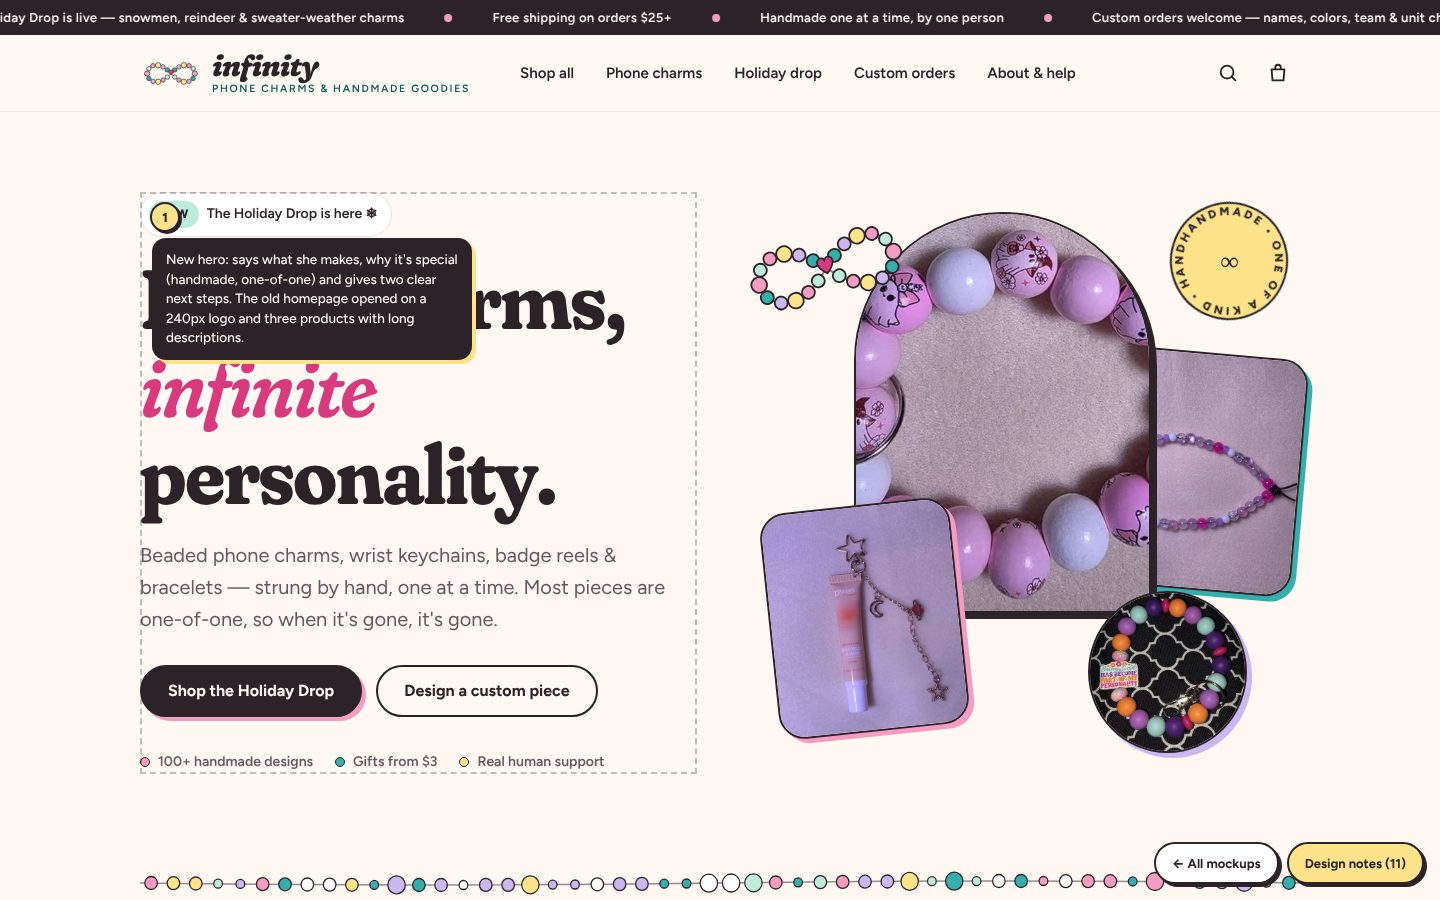
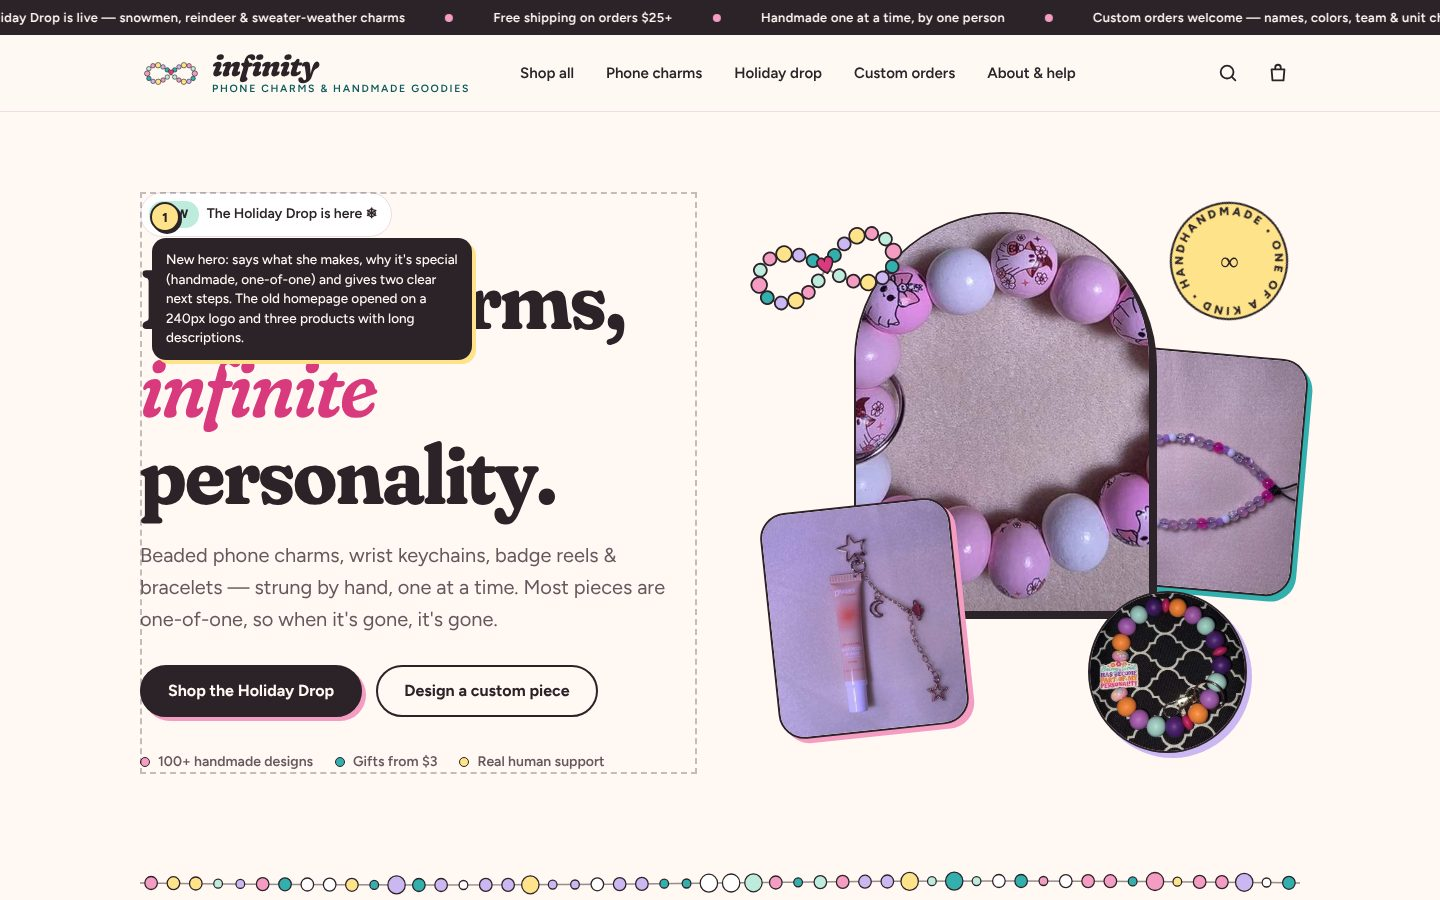
Redesign mockups: remove floating mockup buttons from pages
Design notes now open via a toggle on the overview page (or ?notes=1).

Claude-Session: https://claude.ai/code/session_01F5SttUhy2bjJKwdFrimhWv

diff --git a/infinity-redesign/index.html b/infinity-redesign/index.html
@@ -89,6 +89,11 @@
   @media (max-width: 960px) { .brand, .ui-kit { grid-template-columns: 1fr; } .ui-kit > div:last-child { max-width: 280px; } }
   @media (max-width: 520px) { .palette { grid-template-columns: repeat(2, 1fr); } .logo-show .logo .word b { font-size: 52px; } .logo-show .logo .mark { width: 100px; height: 50px; } }
 
+  .notes-toggle { display: flex; gap: 12px; align-items: center; cursor: pointer; max-width: 42ch; font-size: 14.5px; line-height: 1.4; opacity: .9; }
+  .notes-toggle input { appearance: none; width: 48px; height: 28px; border-radius: 999px; background: rgba(255,255,255,.2); border: 2px solid var(--cream); position: relative; flex-shrink: 0; cursor: pointer; margin: 0; transition: background .2s; }
+  .notes-toggle input::after { content: ""; position: absolute; top: 3px; left: 3px; width: 18px; height: 18px; border-radius: 50%; background: var(--cream); transition: transform .2s; }
+  .notes-toggle input:checked { background: var(--butter); }
+  .notes-toggle input:checked::after { transform: translateX(20px); background: var(--ink); }
   .mocks { display: grid; grid-template-columns: repeat(3, 1fr); gap: 22px; }
   .mock { color: var(--ink); text-decoration: none; display: flex; flex-direction: column; border: 2px solid var(--ink); border-radius: var(--r-lg); overflow: hidden; background: #fff; transition: transform .2s, box-shadow .2s; }
   .mock:hover { transform: translate(-3px, -3px); box-shadow: 7px 7px 0 var(--pink); }
@@ -217,7 +222,7 @@
   <!-- MOCKUPS -->
   <section class="sec" id="mockups" style="background:var(--ink);color:var(--cream)">
     <div class="wrap">
-      <div class="sec-hd"><div><span class="eyebrow" style="color:var(--mint)">The mockups</span><h2 style="color:#fff">Five pages, <em style="color:var(--pink)">fully clickable</em>.</h2></div><p style="max-width:42ch;opacity:.8">Tip: hit <b>“Design notes”</b> (bottom-right of any page) to see numbered pins explaining each change.</p></div>
+      <div class="sec-hd"><div><span class="eyebrow" style="color:var(--mint)">The mockups</span><h2 style="color:#fff">Five pages, <em style="color:var(--pink)">fully clickable</em>.</h2></div><label class="notes-toggle"><input type="checkbox" id="notesToggle"><span><b>Show design notes</b><br>Numbered pins on each page explaining every change</span></label></div>
       <div class="mocks" id="mocks"></div>
     </div>
   </section>
@@ -376,7 +381,12 @@ document.addEventListener('inf:ready', () => {
     ['custom.html', 'Custom orders', 'custom', 'Live bead builder (charm, keychain, reel, bracelet), request form, group orders.'],
     ['about.html', 'About & Help', 'about', 'Maker story, values, FAQ (shipping, returns, fit, care) and contact — one page instead of three.'],
     ['shop.html?vibe=scrubs', 'Collection example', 'scrubs', '“Scrub Life” — every nurse, dental & teacher piece in one place, across product types.']];
-  $('#mocks').innerHTML = M.map(([h, n, k, d]) => `<a class="mock" href="${h}"><div class="shot"><img class="d" src="previews/${k}-fold.jpg" alt="" loading="lazy"><img class="m" src="previews/${k}-mobile-fold.jpg" alt="" loading="lazy" onerror="this.remove()"></div><div class="txt"><h3>${n} <span aria-hidden="true">→</span></h3><p>${d}</p></div></a>`).join('');
+  $('#mocks').innerHTML = M.map(([h, n, k, d]) => `<a class="mock" href="${h}" data-href="${h}"><div class="shot"><img class="d" src="previews/${k}-fold.jpg" alt="" loading="lazy"><img class="m" src="previews/${k}-mobile-fold.jpg" alt="" loading="lazy" onerror="this.remove()"></div><div class="txt"><h3>${n} <span aria-hidden="true">→</span></h3><p>${d}</p></div></a>`).join('');
+
+  // Design-notes toggle: adds ?notes=1 to every mockup link
+  $('#notesToggle').addEventListener('change', e => {
+    document.querySelectorAll('[data-href]').forEach(a => { const h = a.dataset.href; a.href = e.target.checked ? h + (h.includes('?') ? '&' : '?') + 'notes=1' : h; });
+  });
 
   // Renames
   const R = C.filter(p => p.was).filter(p => ['Blue Snowman', 'Pink Lovers', 'You Make It Beat Faster Braclet', "Valentine's Day Stripped Heart", "Keep Calm I'ma Nurse Wrist Keychains", 'Rainbow'].includes(p.was));

diff --git a/infinity-redesign/assets/app.js b/infinity-redesign/assets/app.js
@@ -116,8 +116,7 @@
         </div>
         <div class="ft-base"><span>© 2026 Infinity Phone Charms · Handmade in the USA <span class="ph-mark" title="Placeholder — confirm location">✎</span></span><span class="pay"><span>VISA</span><span>MC</span><span>AMEX</span><span>PayPal</span><span>Apple Pay</span></span></div>
       </div>
-    </footer>
-    <div class="mock-ribbon"><a href="index.html">← All mockups</a><button type="button" data-notes>Design notes</button></div>`;
+    </footer>`;
   }
 
   /* ---------- product card ---------- */
@@ -217,8 +216,8 @@
       pin.addEventListener('click', e => { e.preventDefault(); e.stopPropagation(); pin.classList.toggle('open'); });
       el.prepend(pin);
     });
-    const b = $('[data-notes]'); if (b) b.textContent = `Design notes (${els.length})`;
-    const on = new URLSearchParams(location.search).get('notes') === '1' || store.get('inf-notes', false);
+    // Design notes are opt-in via ?notes=1 (the overview page has a toggle for it)
+    const on = new URLSearchParams(location.search).get('notes') === '1';
     document.body.classList.toggle('notes', on);
   }
 
@@ -235,8 +234,7 @@
       const o = e.target.closest('[data-open]'); if (o) { open(o.dataset.open); return; }
       if (e.target.closest('[data-close]')) { closeAll(); return; }
       const rm = e.target.closest('[data-rm]'); if (rm) { cart.splice(+rm.dataset.rm, 1); store.set('inf-cart', cart); renderCart(); return; }
-      if (e.target.closest('[data-search]')) { const s = $('#searchPop'); s.classList.toggle('open'); if (s.classList.contains('open')) $('#q').focus(); return; }
-      if (e.target.closest('[data-notes]')) { const on = !document.body.classList.contains('notes'); document.body.classList.toggle('notes', on); store.set('inf-notes', on); }
+      if (e.target.closest('[data-search]')) { const s = $('#searchPop'); s.classList.toggle('open'); if (s.classList.contains('open')) $('#q').focus(); }
     });
     document.addEventListener('keydown', e => { if (e.key === 'Escape') { closeAll(); $('#searchPop')?.classList.remove('open'); } });
     $('#q')?.addEventListener('input', e => search(e.target.value));

diff --git a/infinity-redesign/assets/styles.css b/infinity-redesign/assets/styles.css
@@ -331,16 +331,7 @@ section { position: relative; }
 }
 @media (max-width: 480px) { .ft-news form { flex-direction: column; } }
 
-/* ---------- Mockup tooling: design notes ---------- */
-.mock-ribbon {
-  position: fixed; right: 16px; bottom: 16px; z-index: 70; display: flex; gap: 8px; align-items: center;
-}
-.mock-ribbon a, .mock-ribbon button {
-  display: inline-flex; align-items: center; gap: 8px; height: 42px; padding: 0 16px; border-radius: 999px;
-  background: var(--butter); border: 2px solid var(--ink); box-shadow: 3px 3px 0 var(--ink);
-  font: 700 13px/1 var(--f-body); color: var(--ink); text-decoration: none; cursor: pointer;
-}
-.mock-ribbon a { background: #fff; }
+/* ---------- Design notes (shown with ?notes=1) ---------- */
 .note-pin {
   position: absolute; z-index: 30; top: 10px; left: 10px;
   display: none; align-items: center; justify-content: center;

diff --git a/infinity-redesign/product.html b/infinity-redesign/product.html
@@ -73,7 +73,6 @@
     .stickybar img { width: 44px; height: 58px; border-radius: 10px; object-fit: cover; }
     .stickybar .btn { margin-left: auto; min-height: 46px; }
     .stickybar b { font-size: 14px; line-height: 1.2; display: block; }
-    .mock-ribbon { bottom: 86px; }
   }
 </style>
 </head>

diff --git a/infinity-redesign/README.md b/infinity-redesign/README.md
@@ -15,7 +15,7 @@ Unzip the folder and open **`index.html`** in any browser. Everything is local, 
 | `custom.html` | Custom-order bead builder + request form + group orders |
 | `about.html` | About + help center (shipping, returns, fit, care, contact) |
 
-On any page, click **Design notes** (bottom-right) to show numbered pins that explain each change.
+To see numbered pins explaining each change, turn on **Show design notes** in the Mockups section of `index.html`, or add `?notes=1` to any page address (e.g. `home.html?notes=1`).
 
 The `previews/` folder has ready-made screenshots of every page, at desktop and mobile size.
 
